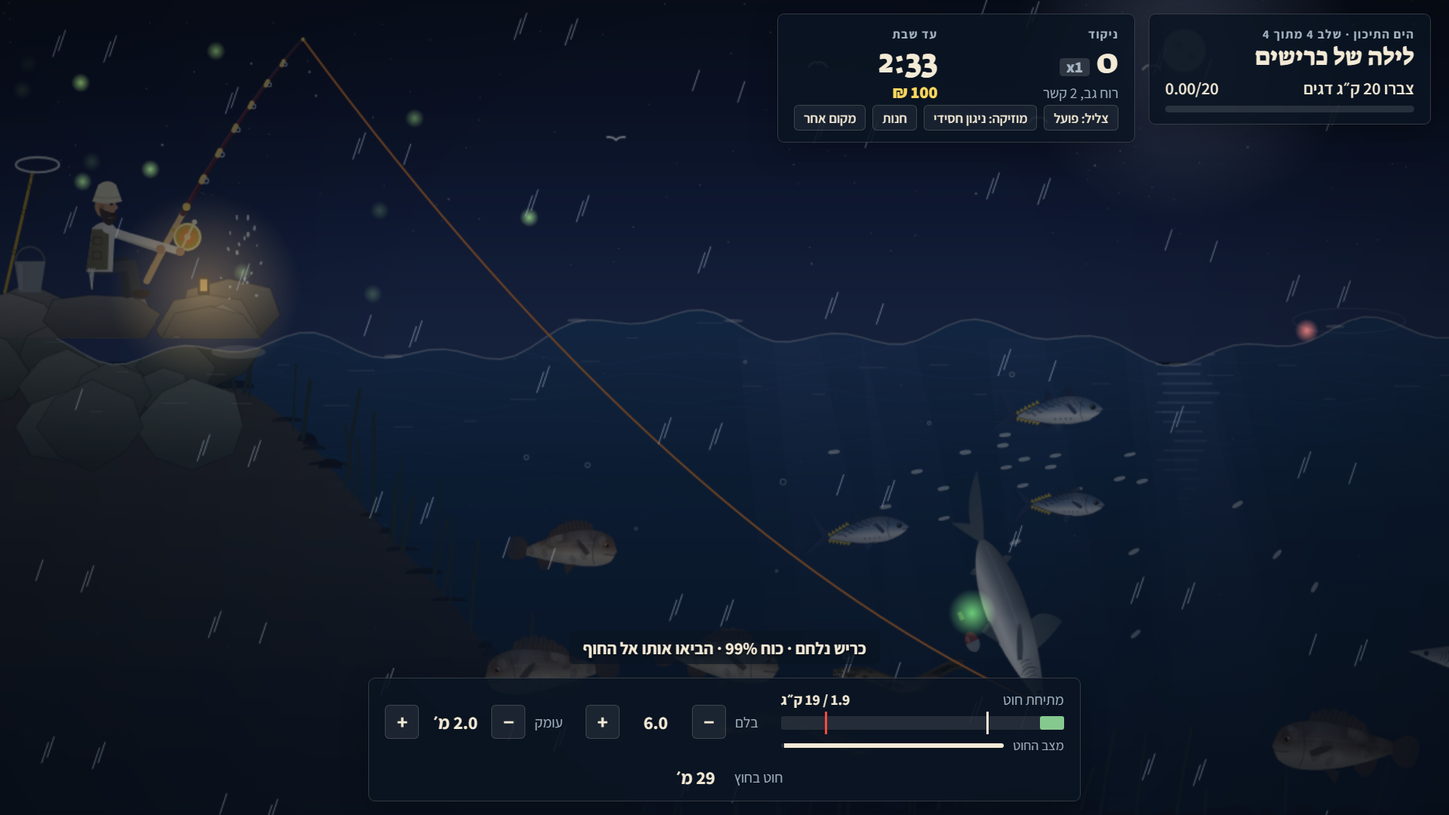
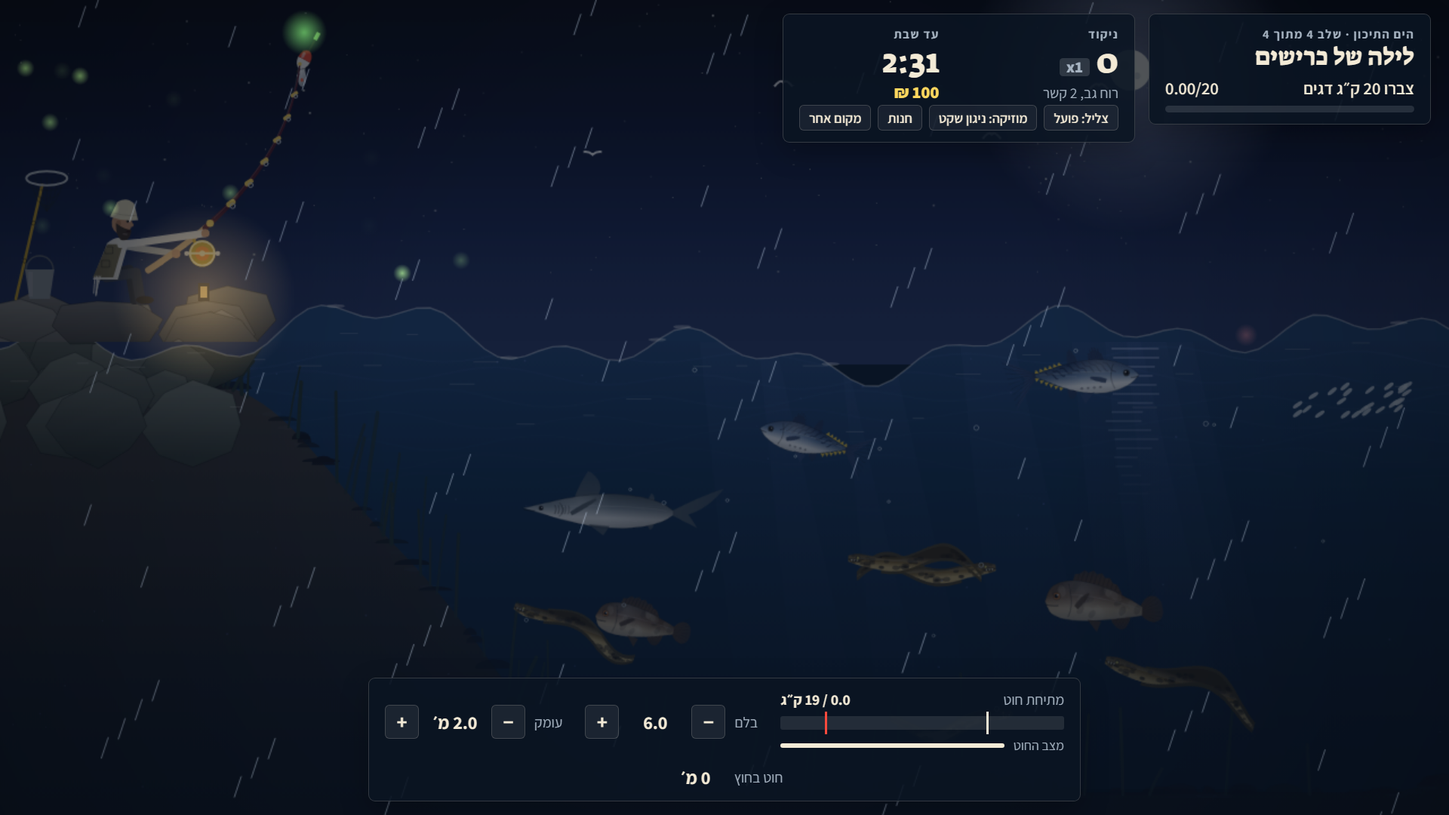
ניגון שקט, פחות טקסט, הוראות קצרות

diff --git a/index.html b/index.html
@@ -3,11 +3,11 @@
 <head>
 <meta charset="utf-8">
 <meta name="viewport" content="width=device-width, initial-scale=1, viewport-fit=cover">
-<meta name="description" content="משחק דיג בדפדפן: כנרת, ים, ירקון וירדן. פיזיקת דיג, 15 סוגי דגים, מוזיקה מזרחית וחסידית, ושולחן שבת בסוף.">
+<meta name="description" content="משחק דיג בדפדפן: כנרת, ים, ירקון וירדן.">
 <meta property="og:type" content="website">
 <meta property="og:title" content="חכה לשבת · משחק דיג">
-<meta property="og:description" content="כנרת, ים, ירקון וירדן. דג כשר ליוסף מוקיר שבת, ואולי גם מרגלית בבטן הדג. בחינם, בלי התקנה.">
-<meta property="og:image" content="https://vizel014.github.io/hakhaleshabat/screenshots/03-fight-carp.png">
+<meta property="og:description" content="כנרת, ים, ירקון וירדן. בחינם, בלי התקנה.">
+<meta property="og:image" content="https://vizel014.github.io/hakhaleshabat/screenshots/05-yosef-mokir-shabbat.png">
 <meta property="og:url" content="https://vizel014.github.io/hakhaleshabat/">
 <meta name="twitter:card" content="summary_large_image">
 <title>חכה לשבת</title>
@@ -138,6 +138,10 @@ button:focus-visible,.btn:focus-visible,.loc:focus-visible{outline:2px solid var
 .songrow .btn{margin:0;font-size:15px;padding:8px 16px}
 .gear{width:100%;height:auto;aspect-ratio:460/120;max-width:100%;border-radius:6px;display:block;margin:6px 0 4px}
 .gearnames{font-size:13px;color:var(--gold);margin:0 0 8px;line-height:1.4}
+.how{list-style:none;counter-reset:s;display:flex;flex-wrap:wrap;gap:8px;margin:4px 0 6px;padding:0}
+.how li{counter-increment:s;display:flex;align-items:center;gap:8px;background:rgba(255,255,255,.05);border:1px solid var(--edge);border-radius:6px;padding:8px 12px;font-size:15px}
+.how li::before{content:counter(s);display:grid;place-items:center;width:22px;height:22px;border-radius:50%;background:var(--bob);color:#1d0c06;font-weight:800;font-size:13px}
+.howmore{font-size:13px!important;color:var(--muted)!important;margin:0 0 14px!important}
 .table-img{width:100%;height:auto;border-radius:6px;margin:4px 0 12px;display:block}
 .sel{font:600 15px var(--body);background:#0b1626;color:var(--cream);border:1px solid var(--edge);border-radius:4px;padding:7px 10px;max-width:100%}
 .sel:focus-visible{outline:2px solid var(--bob);outline-offset:2px}
@@ -849,8 +853,8 @@ function hookFish(f) {
   L = dist(tip, hook) + 2;
   st = 'hooked'; overT = 0; slackT = 0; fightT = 0;
   f.ang = Math.atan2(hook.y - tip.y, hook.x - tip.x);
-  if (SP[f.sp].teeth) { toast(`${SP[f.sp].name}! השיניים שוחקות את החוט`, 2200, 'bad'); addShake(SP[f.sp].boss ? 10 : 5); }
-  else toast(f.golden ? 'דג זהב על החכה!' : 'דג על החכה!', 1300, f.golden ? 'gold' : 'good');
+  if (SP[f.sp].teeth) { toast(`${SP[f.sp].name}!`, 1400, 'bad'); addShake(SP[f.sp].boss ? 10 : 5); }
+  else if (f.golden) toast('דג זהב!', 1300, 'gold');
   splash(hook.x, 0.7); sfx.splash(0.6); addShake(4);
 }
 function fightAI(dt) {
@@ -917,7 +921,7 @@ function maybePredator(dt) {
     const fromRight = hook.x < Math.min(VW, farX) * 0.6 && !isRiver();
     pred = { f: g, x: fromRight ? VW + 120 : hook.x + rand(-80, 80), y: fromRight ? clamp(hook.y + 60, SURF + 30, bottomAt(VW - 40) - 20) : bottomAt(hook.x) - 20, st: 'warn', t: 1.6, fs: fromRight ? -1 : 1, tilt: 0 };
     g.x = pred.x; g.y = pred.y;
-    toast('טורף מתקרב!', 1500, 'bad'); sfx.alarm(); predCD = 25;
+    toast('טורף!', 1200, 'bad'); sfx.alarm(); predCD = 25;
   }
 }
 function updatePred(dt) {
@@ -944,7 +948,7 @@ function updatePred(dt) {
     f.ra = Math.atan2(hook.y - tip.y, hook.x - tip.x) + 0.5; f.ang = f.ra;
     fishes.push(f); hooked = f; hook.w = 1 / (0.03 + f.kg);
     for (let i = 0; i < 24; i++) bubbles.push({ x: hook.x + rand(-30, 30), y: hook.y + rand(-20, 20), r: rand(1.5, 4), p: rand(0, 6) });
-    toast(`${SP[f.sp].name} בלע את ה${SP[old.sp].name}!`, 2200, 'bad');
+    toast(`${SP[f.sp].name}!`, 1400, 'bad');
     addShake(14); flash = 0.35; sfx.chomp(); pred = null; fightT = 0;
   }
 }
@@ -1021,7 +1025,7 @@ function press() {
       if (engaged.st === 'bite') hookFish(engaged);
       else if (engaged.st === 'nibble') {
         if (Math.random() < 0.4) hookFish(engaged);
-        else { toast('מוקדם מדי, הדג נבהל', 1400, 'bad'); releaseFish(engaged, true); }
+        else { toast('מוקדם מדי', 1100, 'bad'); releaseFish(engaged, true); }
       }
     }
   }
@@ -1112,7 +1116,7 @@ const MZ = { C4: 60, D4: 62, Eb4: 63, Eqb4: 63.5, F4: 65, Fs4: 66, G4: 67, A4: 6
 const mzParse = str => str.trim().split(/\s+/).map(tok => { const [n, l] = tok.split(':'); return [MZ[n], +(l || 1)]; });
 const RHYTHM = { maqsum: 'DT.TD.T.', baladi: 'DD.TD.T.', ayoub: 'D.kDT.k.' };
 const TRACKS = [
-  { name: 'ניגון חסידי', kind: 'niggun' },
+  { name: 'ניגון שקט', kind: 'niggun' },
   { name: 'ערב שבת · מקאם חיג׳אז', kind: 'mz', bpm: 100, tonic: 50, drum: 'maqsum', secs: ['A', 'A', 'B', 'A'],
     A: 'D4 Eb4 Fs4 G4 A4:2 Bb4 A4  G4:2 A4 G4 Fs4:2 Eb4 Fs4  G4 A4 Bb4 C5 D5:2 C5 Bb4  A4 G4 Fs4 Eb4 D4:4',
     B: 'A4 D5 D5 Eb5 D5:2 C5 Bb4  C5:2 Bb4 A4 Bb4:2 A4 G4  A4 Bb4 C5 Bb4 A4 G4 Fs4 G4  A4:6 Fs4 Eb4' },
@@ -1128,7 +1132,7 @@ const music = { on: true, track: 0, next: 0, sec: 0, idx: 0, pos: 0, prev: null,
 try { const v = JSON.parse(localStorage.getItem(MUSIC_KEY)); if (v === 'off') music.on = false; else if (TRACKS[v]) music.track = v; } catch (e) { /* storage blocked */ }
 let mbus = null, noiseBuf = null;
 const mtof = m => 440 * Math.pow(2, (m - 69) / 12);
-function musicBus() { if (!mbus) { mbus = AC.createGain(); mbus.gain.value = music.on ? 0.5 : 0; mbus.connect(AC.destination); } return mbus; }
+function musicBus() { if (!mbus) { mbus = AC.createGain(); mbus.gain.value = music.on ? 0.38 : 0; mbus.connect(AC.destination); } return mbus; }
 function mvoice(type, m, t, dur, gain, cutoff, vib) {
   const o = AC.createOscillator(), g = AC.createGain(), f = AC.createBiquadFilter();
   o.type = type; o.frequency.setValueAtTime(mtof(m), t);
@@ -1154,7 +1158,7 @@ function mkick(t, gain, f0 = 110, f1 = 45, len = 0.18) {
 // darbuka: dum (low), tek (sharp rim), ka (soft rim)
 function mdrum(sym, t) {
   if (sym === 'D') { mkick(t, 0.32, 100, 52, 0.3); mdrumNoise(t, 0.04, 'lowpass', 300, 0.7, 0.12); }
-  else if (sym === 'T') mdrumNoise(t, 0.07, 'bandpass', 3800, 1.6, 0.17);
+  else if (sym === 'T') mdrumNoise(t, 0.06, 'bandpass', 3400, 1.6, 0.11);
   else if (sym === 'k') mdrumNoise(t, 0.05, 'bandpass', 3000, 1.6, 0.08);
 }
 // oud and qanun: a bright pluck that darkens as it decays
@@ -1168,7 +1172,7 @@ function mpluck(n, t, gain) {
 // kamanja-style lead that slides into each note
 function mlead(n, t, dur, prev) {
   const fr = mtof(n), pf = prev ? mtof(prev) : fr, g = AC.createGain(), f = AC.createBiquadFilter();
-  f.type = 'lowpass'; f.frequency.value = 2600; f.Q.value = 0.8;
+  f.type = 'lowpass'; f.frequency.value = 1900; f.Q.value = 0.7;
   const l = AC.createOscillator(), lg = AC.createGain();
   l.frequency.value = 6; lg.gain.setValueAtTime(0, t); lg.gain.linearRampToValueAtTime(fr * 0.01, t + Math.min(0.3, dur)); l.connect(lg);
   for (const det of [-6, 6]) {
@@ -1176,25 +1180,44 @@ function mlead(n, t, dur, prev) {
     o.frequency.setValueAtTime(pf, t); o.frequency.exponentialRampToValueAtTime(fr, t + Math.min(0.08, dur * 0.3));
     lg.connect(o.frequency); o.connect(f); o.start(t); o.stop(t + dur + 0.06);
   }
-  g.gain.setValueAtTime(0.0001, t); g.gain.exponentialRampToValueAtTime(0.03, t + 0.05);
-  g.gain.setValueAtTime(0.03, t + dur * 0.8); g.gain.exponentialRampToValueAtTime(0.0001, t + dur + 0.04);
+  g.gain.setValueAtTime(0.0001, t); g.gain.exponentialRampToValueAtTime(0.022, t + 0.06);
+  g.gain.setValueAtTime(0.022, t + dur * 0.8); g.gain.exponentialRampToValueAtTime(0.0001, t + dur + 0.04);
   f.connect(g); g.connect(musicBus()); l.start(t); l.stop(t + dur + 0.06);
 }
+/* a calm, slow niggun in D minor, 3/4: a soft hummed lead over a gentle waltz */
+const CN = { Cs4: 61, D4: 62, E4: 64, F4: 65, G4: 67, A4: 69, Bb4: 70, C5: 72, Cs5: 73, D5: 74, E5: 76, F5: 77 };
+const CALM_CH = { Dm: [38, [50, 53, 57]], Gm: [43, [55, 58, 62]], A: [45, [52, 57, 61]] };
+const CALM = [
+  { m: 'A4:2 D5:2 C5 Bb4  A4:4 G4 A4  Bb4:2 A4:2 G4 F4  E4:4 D4 E4  F4:2 G4:2 A4 Bb4  A4:3 G4 F4 E4  F4:2 E4:2 Cs4 E4  D4:6', c: 'Dm Dm Gm A Dm Gm A Dm' },
+  { m: 'D5:2 F5:2 E5 D5  Cs5:4 A4:2  Bb4:2 D5:2 C5 Bb4  A4:6  G4:2 Bb4:2 A4 G4  F4:3 E4 F4 G4  A4:2 G4:2 E4 Cs4  D4:6', c: 'Dm A Gm Dm Gm Dm A Dm' },
+].map(t => ({ m: t.m.trim().split(/\s+/).map(tok => { const [n, l] = tok.split(':'); return [CN[n], +(l || 1)]; }), c: t.c.split(' ') }));
+const CALM_ORDER = [0, 0, 1, 1];
+// warm hummed voice: sine and triangle together, slow attack, vibrato that arrives late
+function msoft(n, t, dur) {
+  const fr = mtof(n), g = AC.createGain(), f = AC.createBiquadFilter(), l = AC.createOscillator(), lg = AC.createGain();
+  f.type = 'lowpass'; f.frequency.value = 1500;
+  l.frequency.value = 4.8; lg.gain.setValueAtTime(0, t); lg.gain.linearRampToValueAtTime(fr * 0.007, t + Math.min(0.6, dur)); l.connect(lg);
+  for (const [type, lvl] of [['sine', 1], ['triangle', 0.5]]) {
+    const o = AC.createOscillator(), og = AC.createGain(); o.type = type; o.frequency.setValueAtTime(fr, t); og.gain.value = lvl;
+    lg.connect(o.frequency); o.connect(og); og.connect(f); o.start(t); o.stop(t + dur + 0.15);
+  }
+  g.gain.setValueAtTime(0.0001, t); g.gain.exponentialRampToValueAtTime(0.045, t + 0.09);
+  g.gain.setValueAtTime(0.045, t + dur * 0.7); g.gain.exponentialRampToValueAtTime(0.0001, t + dur + 0.12);
+  f.connect(g); g.connect(musicBus()); l.start(t); l.stop(t + dur + 0.15);
+}
 function niggunTick(now) {
-  const bpm = (st === 'hooked' ? 148 : 124) + stormK * 12, e = 60 / bpm / 2;
+  const bpm = st === 'hooked' ? 90 : 76, e = 60 / bpm / 2;
   while (music.next < now + 0.3) {
-    const sec = TUNE[ORDER[music.sec % ORDER.length]], [n, len] = sec.m[music.idx], t = music.next;
-    if (len >= 2) { mvoice('square', n + 1, t, e * 0.14, 0.03, 1700); mvoice('square', n, t + e * 0.12, len * e * 0.9, 0.04, 1700 + (st === 'hooked' ? 600 : 0), true); }
-    else mvoice('square', n, t, e * 0.92, 0.04, 1700 + (st === 'hooked' ? 600 : 0), false);
+    const part = CALM[CALM_ORDER[music.sec % CALM_ORDER.length]], [n, len] = part.m[music.idx], t = music.next;
+    msoft(n, t, len * e * 0.98);
     for (let k = 0; k < len; k++) {
-      const p = music.pos + k, bar = Math.floor(p / 4) % sec.c.length, sub = p % 4, tt = t + k * e;
-      const [root, ch] = CHORD[sec.c[bar]];
-      if (sub === 0) { mvoice('triangle', root, tt, e * 1.6, 0.13, 700); mkick(tt, 0.22); }
-      else if (sub === 2) { mvoice('triangle', root + 7, tt, e * 1.6, 0.1, 700); mkick(tt, 0.12); }
-      else { for (const cn of ch) mvoice('sawtooth', cn, tt, e * 0.55, 0.011, 1300); mdrumNoise(tt, 0.05, 'highpass', 6000, 0.7, 0.05); }
+      const p = music.pos + k, bar = Math.floor(p / 6) % part.c.length, sub = p % 6, tt = t + k * e;
+      const [root, ch] = CALM_CH[part.c[bar]];
+      if (sub === 0) mvoice('sine', root, tt, e * 2.6, 0.12, 500);
+      else if (sub === 2 || sub === 4) for (const cn of ch) mvoice('triangle', cn, tt, e * 1.5, 0.011, 900);
     }
     music.pos += len; music.next += len * e; music.idx++;
-    if (music.idx >= sec.m.length) { music.idx = 0; music.pos = 0; music.sec = (music.sec + 1) % ORDER.length; }
+    if (music.idx >= part.m.length) { music.idx = 0; music.pos = 0; music.sec = (music.sec + 1) % CALM_ORDER.length; }
   }
 }
 function mizrahiTick(tr, now) {
@@ -1207,7 +1230,7 @@ function mizrahiTick(tr, now) {
     for (let k = 0; k < len; k++) {
       const p = music.pos + k, step = p % 8, tt = t + k * e;
       mdrum(RHYTHM[tr.drum][step], tt);
-      mdrumNoise(tt + e / 2, 0.025, 'highpass', 8000, 0.7, 0.022);       // riq jingles
+      mdrumNoise(tt + e / 2, 0.02, 'highpass', 8000, 0.7, 0.01);       // riq jingles
       if (step === 0) mpluck(tr.tonic, tt, 0.09);
       else if (step === 4) mpluck(tr.tonic + 7, tt, 0.06);
     }
@@ -1242,7 +1265,7 @@ function setTrack(v) {
   ensureAudio(); stopOwn();
   if (v === 'off') music.on = false; else { music.on = true; music.track = v; }
   music.sec = 0; music.idx = 0; music.pos = 0; music.prev = null; music.next = 0;
-  if (AC) musicBus().gain.setTargetAtTime(music.on ? 0.5 : 0, AC.currentTime, 0.05);
+  if (AC) musicBus().gain.setTargetAtTime(music.on ? 0.38 : 0, AC.currentTime, 0.05);
   if (music.on && v === 'own') playOwn();
   try { localStorage.setItem(MUSIC_KEY, JSON.stringify(v === 'own' ? 0 : v)); } catch (e) { /* storage blocked */ }
   updMusicBtn();
@@ -1280,7 +1303,7 @@ function update(dt) {
 
   if (st === 'fly') {
     if (bob.x > Math.min(VW, farX) - 70 && !flyLock) { flyLock = true; L = dist(tip, bob); }
-    if (bob.x < SHORE && bob.y > SURF - 36) { resetRig(); toast('קצר מדי, טענו חזק יותר', 1500, 'bad'); }
+    if (bob.x < SHORE && bob.y > SURF - 36) { resetRig(); toast('קצר מדי', 1100, 'bad'); }
     else if (bob.y > surfAt(bob.x) - 3) {
       st = 'water'; sinceLand = 0; L = dist(tip, bob) + 4;
       const v = vel(bob), sp = Math.hypot(v.x, v.y);
@@ -1293,7 +1316,7 @@ function update(dt) {
     leader += clamp(target - leader, -240 * dt, 200 * dt);
     if (!junk && !junkTried && pressed && !engaged && L > 200 && hook.y >= bottomAt(hook.x) - 6) {
       junkTried = true;
-      if (Math.random() < 0.14) { junk = pickJunk(); bait = false; toast('משהו נתפס בקרקעית...', 1500); sfx.plop(); }
+      if (Math.random() < 0.14) { junk = pickJunk(); bait = false; sfx.plop(); }
     }
     if (L <= 95) { st = 'ready'; L = 70; bait = true; leader = 12; if (engaged) releaseFish(engaged, false); if (junk) landJunk(); }
   }
@@ -1325,7 +1348,7 @@ function update(dt) {
   if (pearlFx) {
     pearlFx.t += dt;
     if (!pearlFx.shown && pearlFx.t > 0.7) {
-      pearlFx.shown = true; toast('מרגלית בבטן הדג! +400 ₪', 2200, 'gold'); sfx.gold(); flash = Math.max(flash, 0.3);
+      pearlFx.shown = true; toast('מרגלית! +400 ₪', 1800, 'gold'); sfx.gold(); flash = Math.max(flash, 0.3);
       for (let i = 0; i < 24; i++) sparks.push({ x: tip.x + rand(-30, 50), y: tip.y + rand(20, 100), t: rand(-0.3, 0) });
     }
   }
@@ -1389,7 +1412,7 @@ function escapeFish() {
   const f = hooked; hooked = null; releaseFish(f, true);
   hook.w = 1 / 0.03; st = 'water'; bait = false; L = dist(tip, bob) + 10;
   combo = 1; bumpCombo();
-  toast('הדג השתחרר, החוט היה רפוי', 1600, 'bad');
+  toast('הדג השתחרר', 1300, 'bad');
 }
 function landFish(f) {
   hooked = null; landed = f; landT = 0; st = 'landed';
@@ -1411,18 +1434,15 @@ function landFish(f) {
   if (f.golden || sp.boss) sfx.gold(); else sfx.win();
   pearlFx = pearl ? { t: 0 } : null;
   speech = []; talk = null;
-  say('ברוך ה׳!', 1.5);
-  if (pearl) say('מאן דיזיף שבתא, פרעיה שבתא!', 2.8);
-  else if (sp.kosher && (!saidYosef || f.golden || f.kg >= 5)) { say('זה ליוסף מוקיר שבת', 2.2); saidYosef = true; }
-  else if (!sp.kosher && !saidMarket) { say('את זה נמכור בשוק', 1.8); saidMarket = true; }
-  toast(`${f.golden ? 'דג זהב! ' : ''}${sp.name}<small class="num">${f.kg.toFixed(2)} ק״ג${sold ? ' · +' + sold + ' ₪' : ''}</small><span class="k${sp.kosher ? '' : ' no'}">${sp.kosher ? 'לשבת' : 'לשוק'}</span>`, 2000, f.golden ? 'gold' : 'good');
+  say('ברוך ה׳!', 1.4);
+  if (sp.kosher && !saidYosef) { say('זה ליוסף מוקיר שבת', 2); saidYosef = true; }
+  toast(`${sp.name}<small class="num">${f.kg.toFixed(1)} ק״ג</small>`, 1600, f.golden ? 'gold' : 'good');
 }
 function landJunk() {
   const j = junk; junk = null;
   wallet.coins += j.coins; saveWallet();
   toast(`${j.name}${j.coins ? '<small class="num">+' + j.coins + ' ₪</small>' : ''}`, 2000, j.coins >= 50 ? 'gold' : '');
   floats.push({ x: tip.x + 50, y: tip.y + 60, txt: j.coins + ' ₪', t: 0, c: '#ffd75e', big: false, combo: 1 });
-  speech = []; talk = null; say(j.line, 2.8);
   if (j.coins >= 50) sfx.gold(); else sfx.plop();
 }
 function bumpCombo() { const c = $('comboTxt'); c.classList.remove('bump'); void c.offsetWidth; if (combo > 1) c.classList.add('bump'); }
@@ -1474,7 +1494,7 @@ function beginLevel() { ensureAudio(); hideCard(); st = 'ready'; resetRig(); }
 function updateStorm(dt) {
   if (st !== 'menu' && !storm && !stormDone && levelIdx >= 1 && timeLeft < LV.time * 0.75 && timeLeft > 30 && Math.random() < dt * 0.04) {
     storm = { t: 0, dur: rand(16, 22) }; stormDone = true;
-    toast('סערה! הדגים משתוללים', 1800, 'bad'); sfx.thunder();
+    toast('סערה!', 1400, 'bad'); sfx.thunder();
   }
   if (storm) {
     storm.t += dt;
@@ -1518,13 +1538,8 @@ function showMap() {
   showCard(`
     <div class="eyebrow">משחק דיג · ארבעה מקומות</div>
     <h1>חכה לשבת</h1>
-    <p>דייג אחד, חכה אחת, ושולחן שצריך למלא לפני שבת. על כל דג הוא אומר ״ברוך ה׳״. דג כשר נשמר ליוסף מוקיר שבת, ואת השאר מוכרים בשוק. מתחילים עם 100 ₪, ובכפתור ״חנות״ קונים חוט חזק יותר, פיתיון, סליל ורשת. ומי יודע, אולי גם אצלכם תימצא מרגלית בבטן הדג.</p>
-    <dl class="keys">
-      <dt>החזקה ושחרור</dt><dd>טעינת הטלה ושליחת המצוף</dd>
-      <dt>לחיצה כשהמצוף שוקע</dt><dd>הנפה ותפיסת הדג</dd>
-      <dt>החזקה</dt><dd>גלגול החוט אל החוף</dd>
-      <dt>↑ ↓ · גלגלת</dt><dd>עומק הפיתיון · בלם הסליל</dd>
-    </dl>
+    <ol class="how"><li><b>החזיקו ושחררו</b> להטלה</li><li><b>המצוף שוקע?</b> לחצו</li><li><b>החזיקו</b> לגלגל את הדג</li></ol>
+    <p class="howmore">↑ ↓ עומק · גלגלת בלם · ״חנות״ לציוד</p>
     <div class="eyebrow">איפה דגים היום?</div>
     <div class="locs">${cards}</div>
     <div class="eyebrow">אלבום הדגים · ${caught} מתוך ${allSp.length}</div>
@@ -1559,7 +1574,7 @@ function openShop() {
   showCard(`
     <div class="eyebrow">${LOC.name} · המשחק מושהה</div>
     <h2>חנות ציוד</h2>
-    <p>כסף מרוויחים ממכירת דגים לא כשרים בשוק, מבונוס הזמן בסוף כל שלב, ממרגליות ומבקבוקים שנתפסים בקרקעית.</p>
+    <p>כסף מקבלים מדגים לא כשרים, מבונוס זמן וממרגליות.</p>
     <div class="eyebrow">בארנק <span id="shopCoins" class="num">${wallet.coins.toLocaleString('he-IL')} ₪</span></div>
     <canvas id="gearCv" class="gear" width="920" height="240" role="img" aria-label="הציוד שלכם: קנה, סליל, חוט, פיתיון ורשת"></canvas><div class="gearnames" id="gearNames"></div><div class="shop" id="shop">${shopHTML()}</div>
     <button class="btn" id="goBtn" type="button">חזרה לדיג</button>`);
@@ -1709,29 +1724,21 @@ function updateHud() {
   const out = st === 'ready' || st === 'charge' || st === 'swing' || st === 'menu' ? 0 : L / PX;
   setTxt('lineTxt', Math.round(out) + ' מ׳');
 
+  // the hint line only speaks when there is something to do right now
   let h = '', hot = false;
-  if (st === 'ready') h = 'החזיקו לחוץ כדי לטעון הטלה, שחררו כדי להטיל';
-  else if (st === 'charge') h = 'שחררו כשהמד גבוה';
-  else if (st === 'fly') h = flyLock ? 'הסליל נעול' : 'לחיצה עוצרת את הסליל באוויר';
+  if (st === 'ready' && totalCount === 0 && lvCatch.length === 0) h = 'החזיקו ושחררו כדי להטיל';
   else if (st === 'water') {
-    if (engaged && engaged.st === 'bite') { h = 'עכשיו! לחצו להנפה'; hot = true; }
-    else if (engaged && engaged.st === 'nibble') h = 'המצוף רועד. חכו שישקע';
-    else if (junk) h = 'משהו כבד על הקרס. גלגלו פנימה';
-    else if (!bait) h = 'הפיתיון נאכל. גלגלו פנימה ושלחו שוב';
-    else if (stormK > 0.3) h = 'בסערה הדגים רעבים. זה הזמן!';
-    else h = 'ממתינים לנגיסה · החזקה מגלגלת חזרה · ↑↓ עומק';
+    if (engaged && engaged.st === 'bite') { h = 'עכשיו!'; hot = true; }
+    else if (!bait && !junk) h = 'אין פיתיון. גלגלו פנימה';
   }
   else if (st === 'hooked') {
     const f = hooked;
-    if (f.jump === 2) { h = pressed ? 'קפיצה! שחררו את הסליל!' : 'קפיצה! חכו שינחת'; hot = pressed; }
-    else if (pred) { h = 'טורף מתקרב! הביאו את הדג מהר'; hot = true; }
-    else if (overT > 0.05) { h = 'החוט עומד להיקרע! הורידו בלם'; hot = true; }
-    else if (slackT > 1.2) { h = 'החוט רפוי! גלגלו מהר'; hot = true; }
-    else if (f.nearB) { h = 'הדג בסלעים ושוחק את החוט! הרימו אותו'; hot = wear > 0.5; }
-    else if (wear > 0.6) { h = 'החוט כמעט נקרע, סיימו מהר'; hot = true; }
-    else h = `${SP[f.sp].name} נלחם · כוח ${Math.round(f.stam * 100)}% · הביאו אותו אל החוף`;
+    if (f.jump === 2 && pressed) { h = 'שחררו!'; hot = true; }
+    else if (pred) { h = 'טורף!'; hot = true; }
+    else if (overT > 0.05) { h = 'הורידו בלם!'; hot = true; }
+    else if (slackT > 1.2) { h = 'גלגלו!'; hot = true; }
+    else if (f.nearB && wear > 0.4) { h = 'הרימו מהסלעים'; hot = true; }
   }
-  else if (st === 'landed') h = 'לרשת!';
   setTxt('hint', h);
   if (hudCache.hot !== hot) { hudCache.hot = hot; $('hint').classList.toggle('hot', hot); }
   if (hudCache.hh !== !h) { hudCache.hh = !h; $('hint').hidden = !h; }
@@ -2532,7 +2539,6 @@ function render() {
     ctx.font = `${f.big ? 40 : 28}px "Suez One", Georgia, serif`;
     ctx.lineWidth = 4; ctx.strokeStyle = 'rgba(10,20,34,.7)'; ctx.strokeText(f.txt, f.x, f.y);
     ctx.fillStyle = f.c; ctx.fillText(f.txt, f.x, f.y);
-    if (f.combo > 1) { ctx.font = '700 16px Assistant, sans-serif'; ctx.fillStyle = '#ffd75e'; ctx.fillText(`רצף x${f.combo}`, f.x, f.y + 22); }
   }
   ctx.globalAlpha = 1;
 

diff --git a/README.md b/README.md
@@ -2,51 +2,27 @@
 
 משחק דיג בדפדפן, בחינם ובלי התקנה.
 
-**לשחק עכשיו:** https://vizel014.github.io/hakhaleshabat/
+**לשחק:** https://vizel014.github.io/hakhaleshabat/
 
-דייג אחד, חכה אחת, ושולחן שצריך למלא לפני שבת. על כל דג הדייג אומר "ברוך ה׳", דג כשר נשמר ליוסף מוקיר שבת, ואת השאר מוכרים בשוק וקונים בכסף ציוד. ומי יודע, אולי גם אצלכם תימצא מרגלית בבטן הדג.
-
-![קרב עם קרפיון בשקיעה מול הגולן](screenshots/03-fight-carp.png)
-
-## ארבעה מקומות
-
-| מקום | מה מחכה שם |
-|---|---|
-| **הכנרת** | מזח עץ מול הגולן. אמנון, בורי, בינית, קרפיון, שפמנון, ושפמנון ענק שקורע חוטים |
-| **הים התיכון** | שובר גלים ביפו. דניס, לברק, לוקוס, טונית, מורנה וכריש |
-| **הירקון** | פלטפורמה בפארק מול עזריאלי. אמנון, קרפיון, צלופח ושפמנון, עם זרם |
-| **הירדן** | גדה עם אקליפטוסים וזרם מהיר. פורל, בינית ושפמנון |
+![זה ליוסף מוקיר שבת](screenshots/05-yosef-mokir-shabbat.png)
 
 ## איך משחקים
 
-- **החזקה ושחרור:** הדייג מניף את החכה לאחור ומטיל.
-- **לחיצה כשהמצוף שוקע:** הנפה.
-- **החזקה:** גלגול החוט.
-- **↑ ↓:** עומק הפיתיון.
-- **גלגלת או ← →:** בלם הסליל.
-- **דג קופץ?** שחררו את הסליל עד שינחת.
-- **דג בסלעים** שוחק את החוט.
-- **מתיחה מעל חוזק החוט** קורעת אותו.
+1. **מחזיקים ומשחררים** כדי להטיל.
+2. **כשהמצוף שוקע**, לוחצים.
+3. **מחזיקים** כדי לגלגל את הדג.
 
-בטלפון כדאי לשחק לרוחב.
+↑ ↓ עומק · גלגלת בלם · "חנות" לציוד. בטלפון כדאי לשחק לרוחב.
 
-## עוד בפנים
+## מקומות
 
-- **חנות ציוד:** חוט קלוע, פיתיון, סליל ורשת. רואים את החכה משתדרגת בעיניים.
-- **מרגליות** בבטן הדג, **סערות** באמצע שלב, **קורמורנים** צוללים, ו**זבל** מהקרקעית. כולל בקבוק עם פתק.
-- **מוזיקה מקורית:** ניגון חסידי ושלושה קטעים מזרחיים במקאמים חיג׳אז, ראסט וביאת. אפשר גם לנגן שיר מהמכשיר.
-- **שולחן שבת** בסוף כל מקום, עם הדג הכשר הכי גדול שתפסתם.
-- **אלבום דגים, שיאים וכסף:** נשמרים בדפדפן.
+הכנרת · הים התיכון · הירקון · הירדן
 
 ## צילומי מסך
 
 | | |
 |---|---|
-| ![בחירת מקום](screenshots/01-choose-place.png) | ![הנפת החכה](screenshots/02-cast.png) |
-| ![ברוך ה׳](screenshots/04-baruch-hashem.png) | ![זה ליוסף מוקיר שבת](screenshots/05-yosef-mokir-shabbat.png) |
-| ![סערה וכריש בלילה](screenshots/06-storm-shark.png) | ![פורל בירדן](screenshots/07-jordan-trout.png) |
-| ![חנות ציוד](screenshots/08-gear-shop.png) | ![שולחן שבת](screenshots/09-shabbat-table.png) |
-
-## טכני
-
-קובץ HTML אחד, בלי ספריות. גרפיקה ב־Canvas, פיזיקה מבוססת מיקום (חוט אלסטי, בלם סליל, ציפה, זרם), וצליל ב־Web Audio.
+| ![בחירת מקום](screenshots/01-choose-place.png) | ![הנפה](screenshots/02-cast.png) |
+| ![ברוך ה׳](screenshots/04-baruch-hashem.png) | ![כריש בסערה](screenshots/06-storm-shark.png) |
+| ![פורל בירדן](screenshots/07-jordan-trout.png) | ![חנות ציוד](screenshots/08-gear-shop.png) |
+| ![שולחן שבת](screenshots/09-shabbat-table.png) | |
